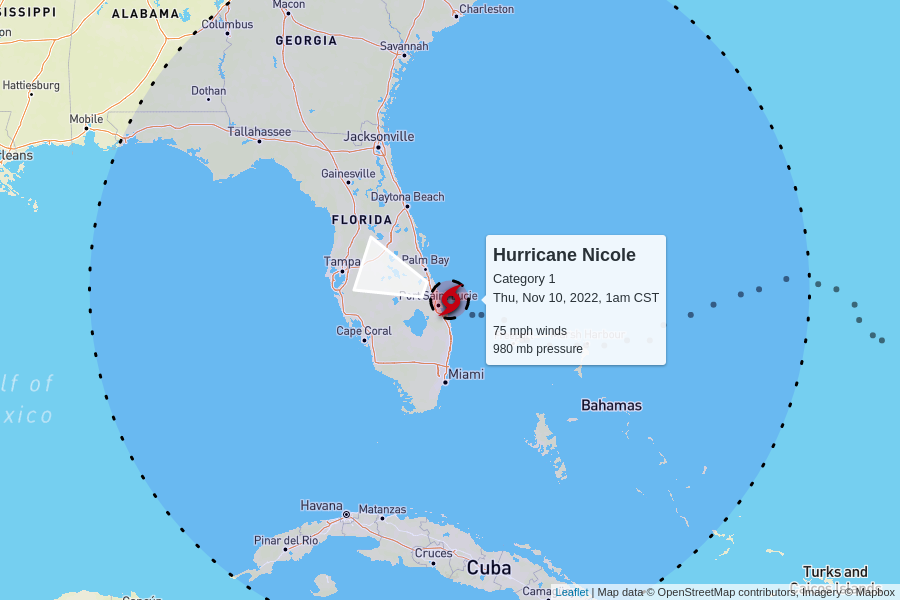
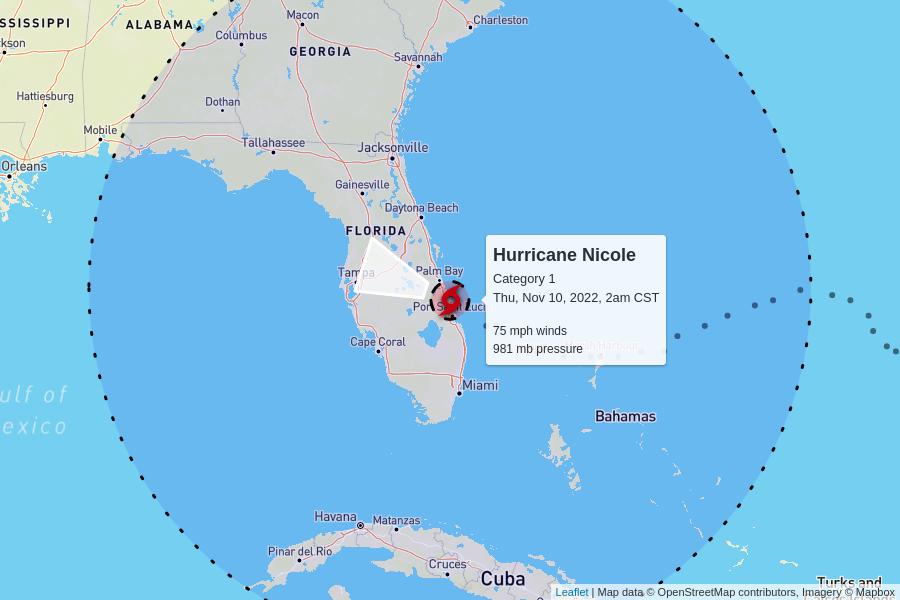
automatic update

diff --git a/docs/index.html b/docs/index.html
@@ -100,7 +100,7 @@
         <td colspan="6" class="storm category-1" >
           <h2>
             Hurricane Nicole - Category 1
-            <p class="updated">last updated <span data-time>2022-11-10T07:00:00.000Z</span></p>
+            <p class="updated">last updated <span data-time>2022-11-10T08:00:00.000Z</span></p>
           </h2>
         </td>
       </tr>
@@ -116,7 +116,7 @@
       <tr>
         <td class="spacer"></td>
         <td>75 mph</td>
-        <td>980 mb</td>
+        <td>981 mb</td>
         <td>
           14 mph to the west-northwest
           <br/>
